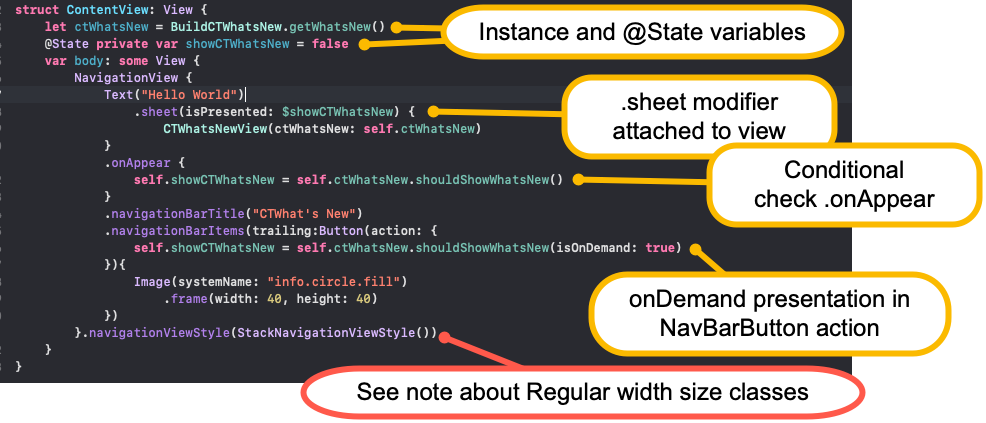
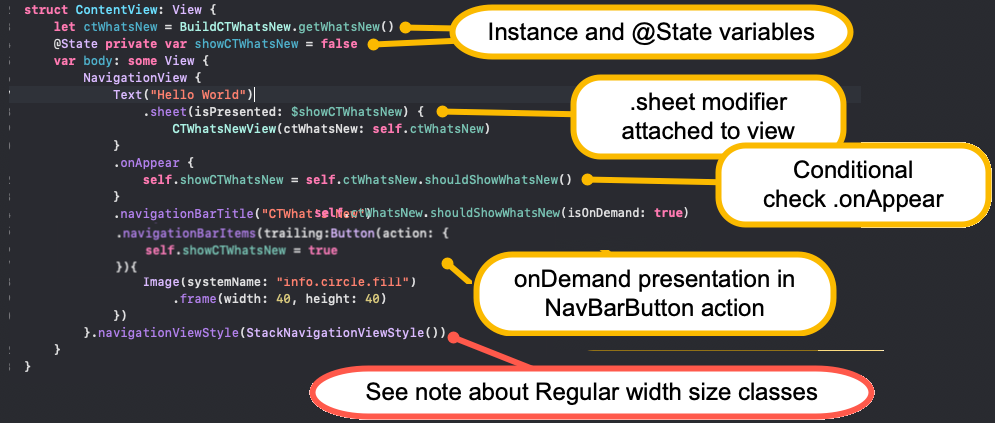
Update to remove condition from function

diff --git a/README.md b/README.md
@@ -165,9 +165,9 @@ On your parent view, you can use
 
 ###### On Demand presentation
 
-If you wish to display whats new on demand, you can assign it to an action on a button.  If this is the case, add `isOnDemand: true` as the final parameter of the `shouldShowWhatsNew` function.
+If you wish to display whats new on demand, you can assign it to an action on a button.  If this is the case, simply set the value of the showCTWhatsNew variable to true.
 ```swift
-self.showCTWhatsNew = self.ctWhatsNew.shouldShowWhatsNew(isOnDemand: true)
+self.showCTWhatsNew = true
 ```
 A sample implementation could look something like this.
 
